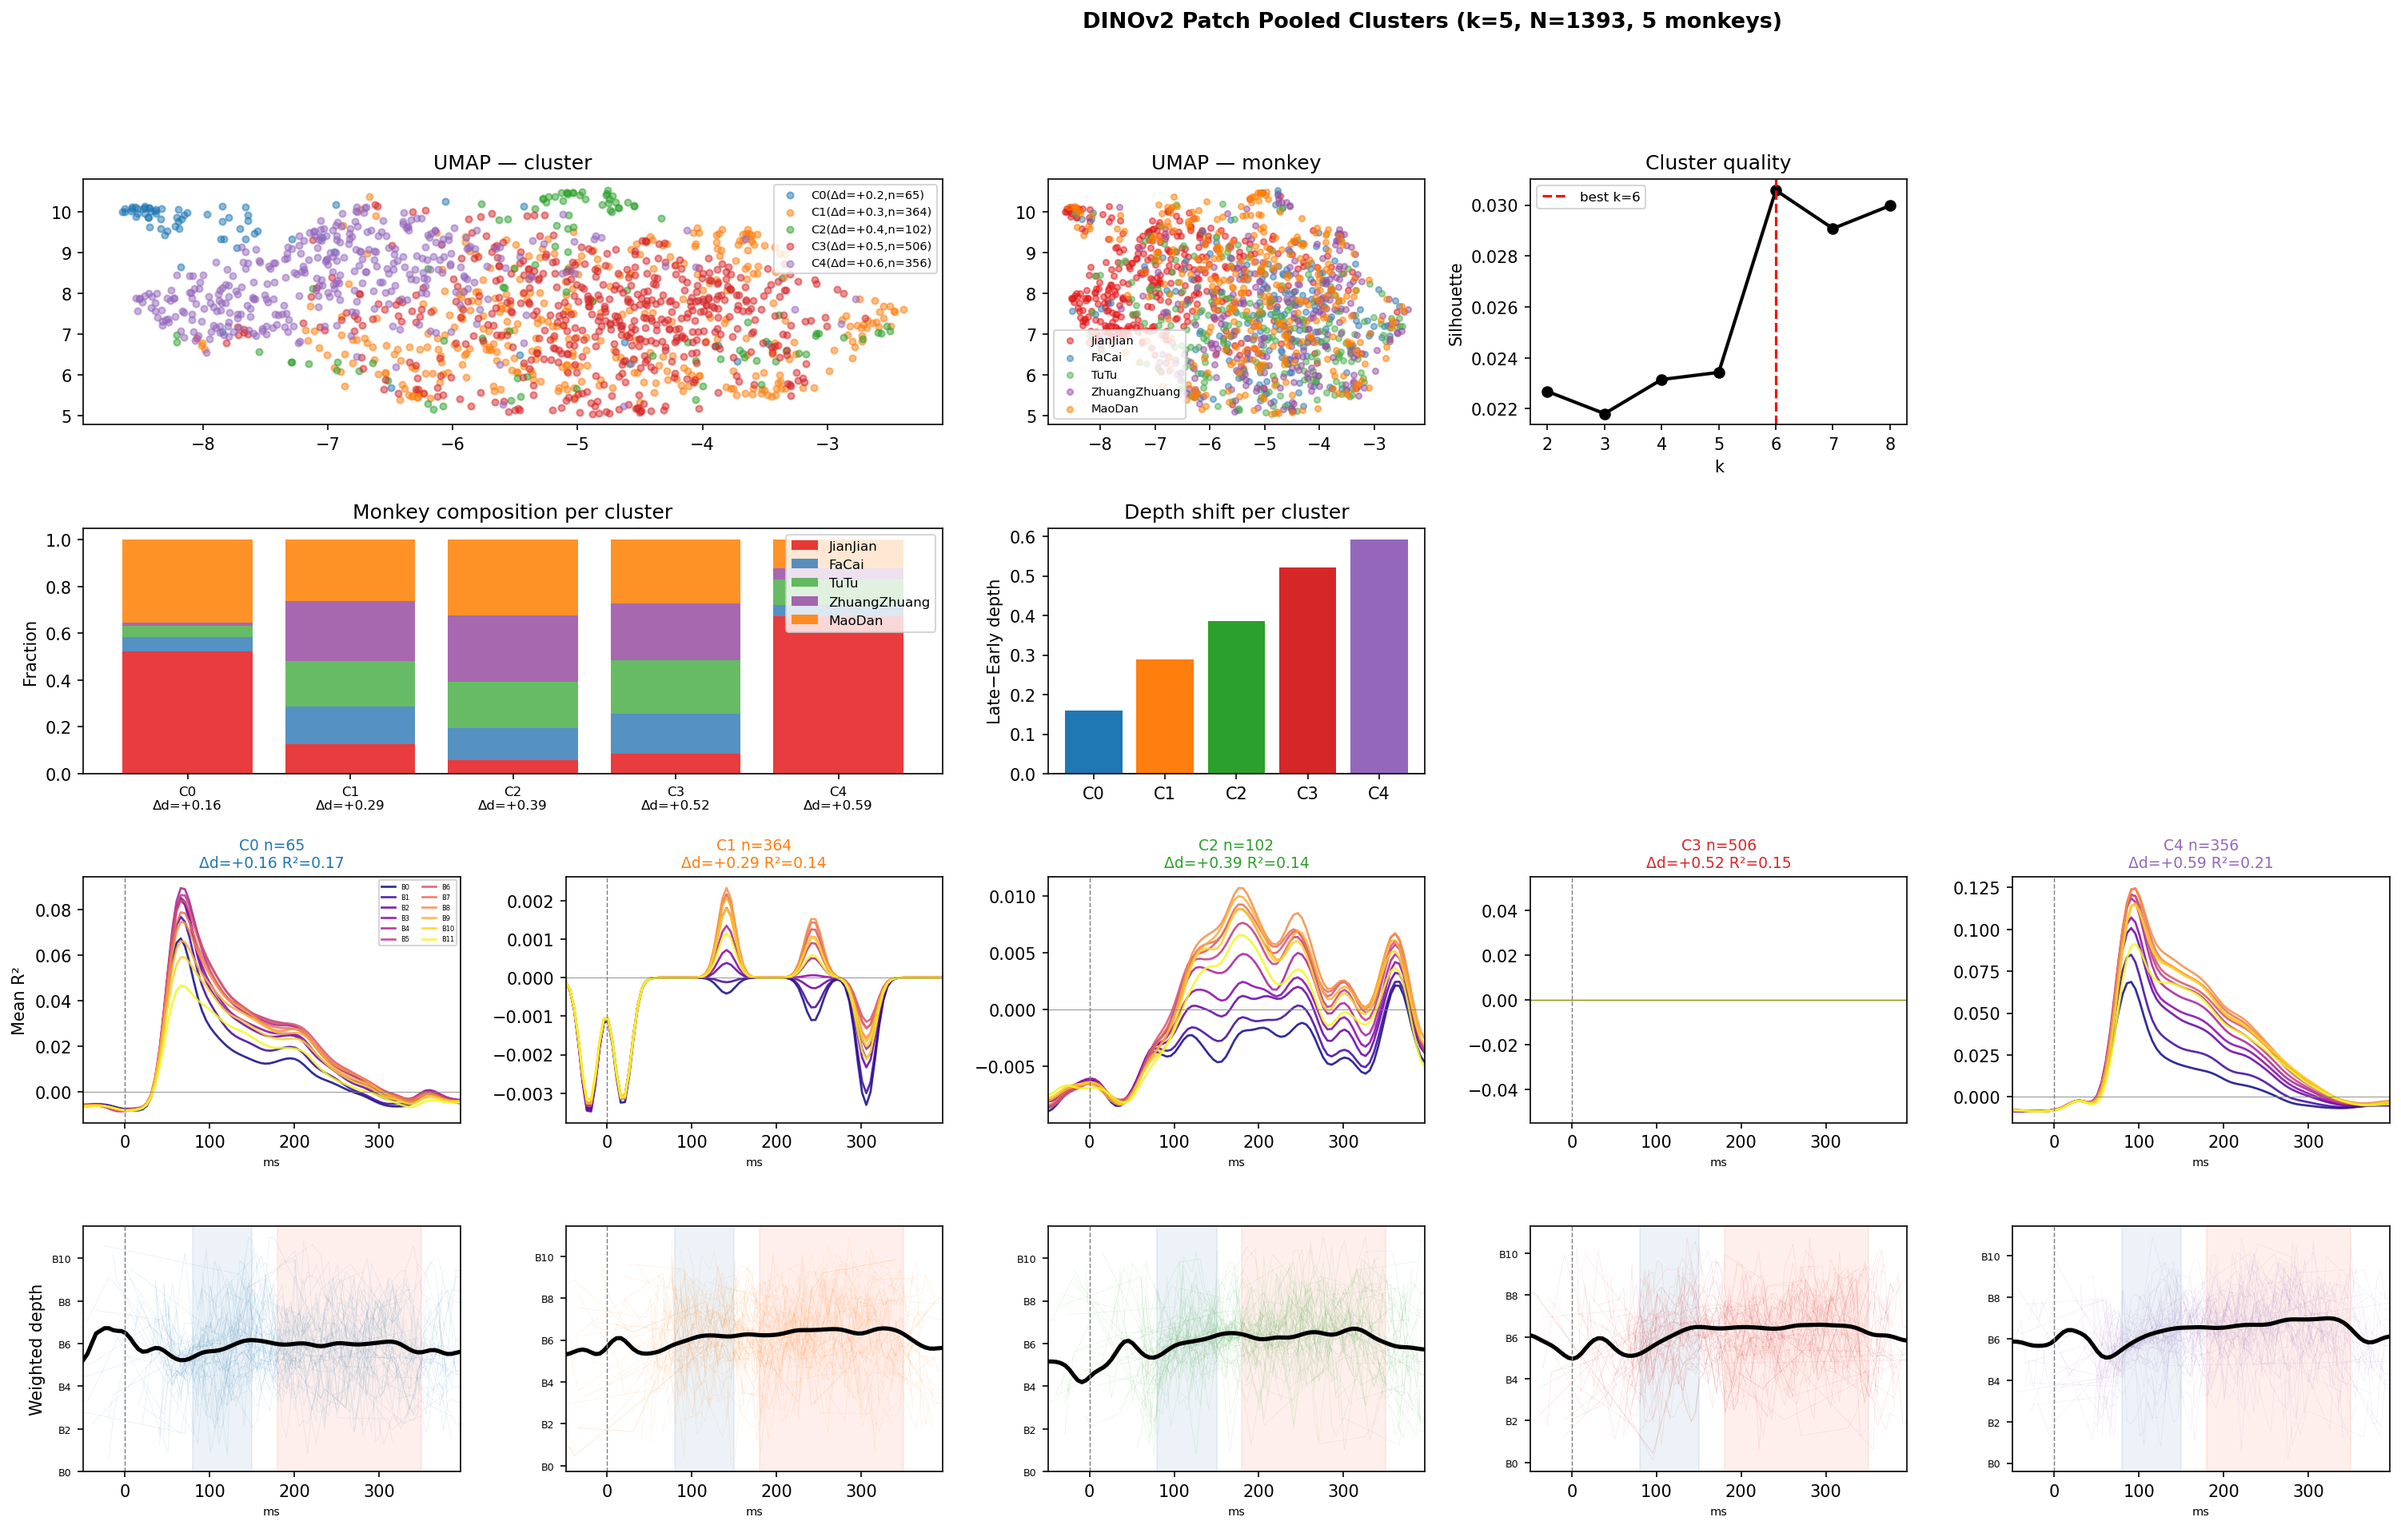
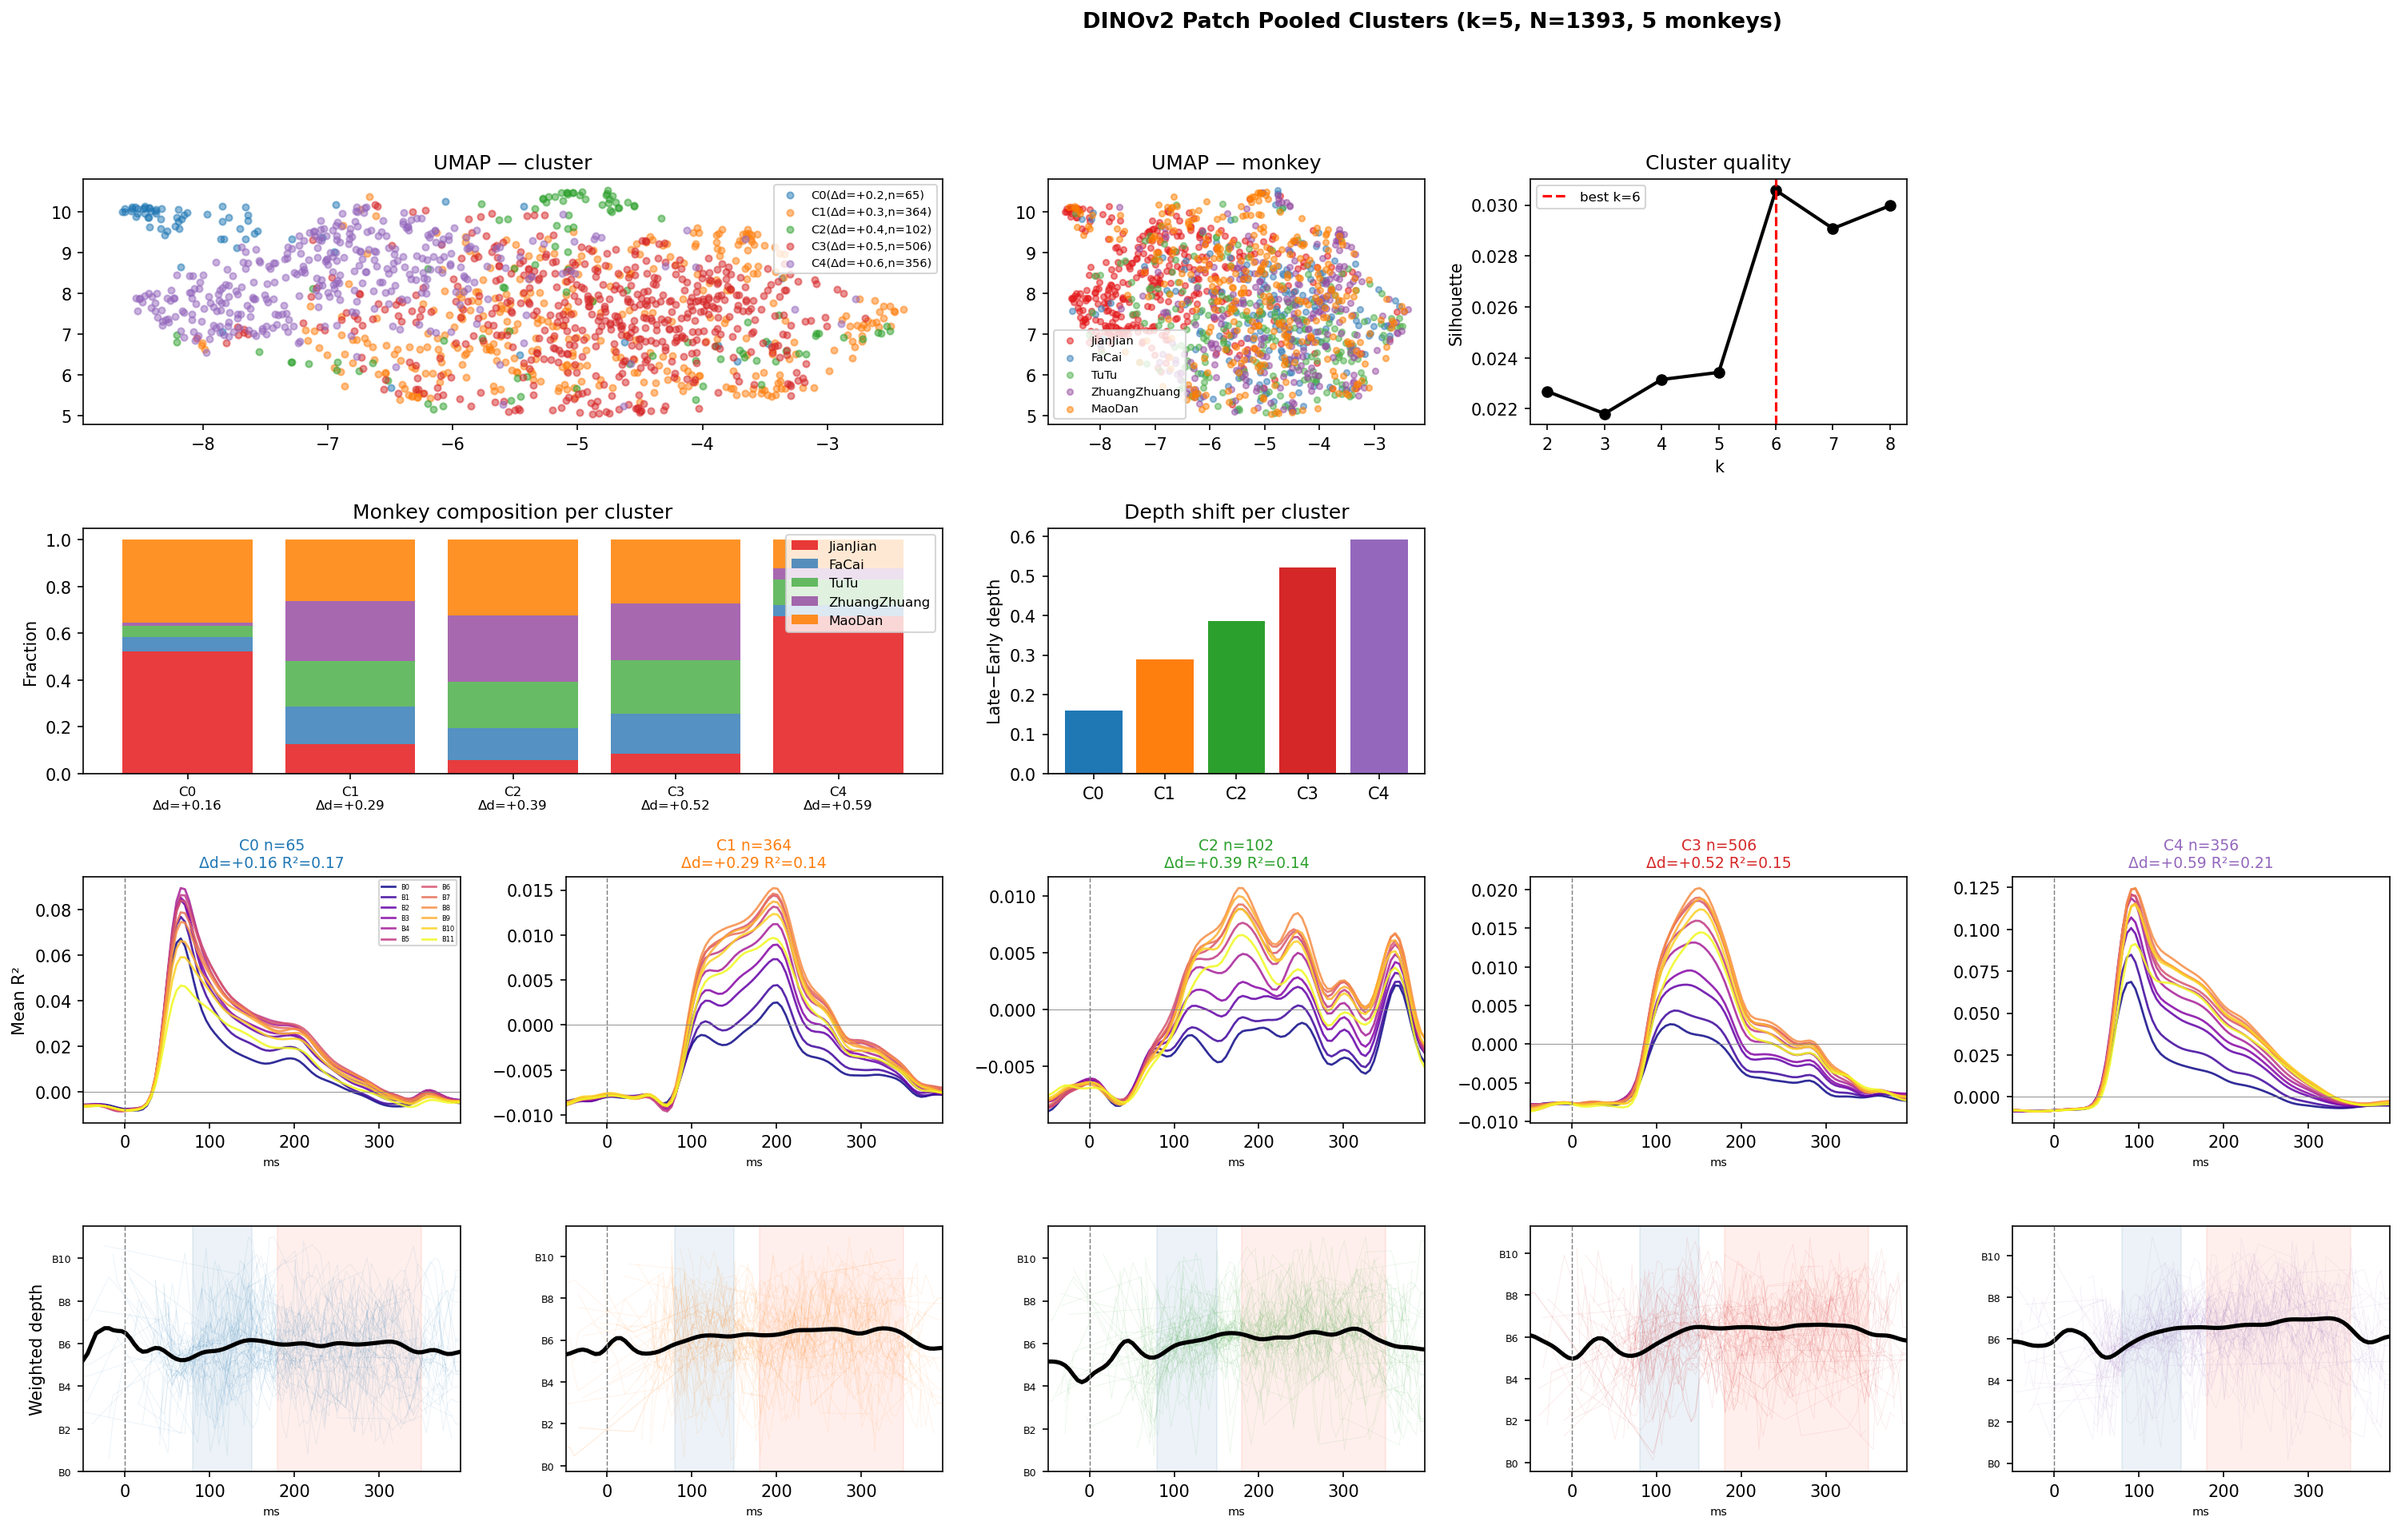
fix: use nanmean for cluster mean R² to avoid NaN propagation
np.mean propagates NaN silently, causing flat R² curves in clusters
containing units from low-response monkeys (TuTu, FaCai, etc.) where
many time bins are NaN from the safe R² computation. Replace with
np.nanmean in dinov2_pooled_clustering{,_patch}.py and pooled_clustering.py.
Regenerate patch token cluster figures (k=4,5,6) and per-monkey overview.

Changed region(s): [[0.2168, 0.586, 0.4026, 0.7402], [0.6813, 0.586, 0.8052, 0.7402], [0.6194, 0.6477, 0.6813, 0.7402]]

diff --git a/notebooks/pooled_clustering.py b/notebooks/pooled_clustering.py
@@ -145,7 +145,7 @@ for k_use in sorted(set([best_k, 4, 5])):
         mk_comp = {MONKEYS[m]: (monkey_id[unit_idx]==m).mean() for m in range(len(MONKEYS))}
         cluster_stats.append(dict(
             label=c, n=len(cidx), cidx=cidx, unit_idx=unit_idx,
-            mean_r2=r2_c.mean(axis=2), mean_depth=np.nanmean(dc_c,axis=1),
+            mean_r2=np.nanmean(r2_c, axis=2), mean_depth=np.nanmean(dc_c,axis=1),
             mean_pk_r2=np.nanmean(pk_c), early_d=ed, late_d=ld, shift=ld-ed,
             mk_comp=mk_comp,
         ))

diff --git a/notebooks/dinov2_pooled_clustering.py b/notebooks/dinov2_pooled_clustering.py
@@ -152,7 +152,7 @@ for k_use in sorted(set([best_k, 4, 5])):
         mk_comp  = {MONKEYS[m]: (monkey_id[unit_idx]==m).mean() for m in range(5)}
         cluster_stats.append(dict(
             label=c, n=len(cidx), cidx=cidx, unit_idx=unit_idx,
-            mean_r2=r2_c.mean(axis=2), mean_depth=np.nanmean(dc_c,axis=1),
+            mean_r2=np.nanmean(r2_c, axis=2), mean_depth=np.nanmean(dc_c,axis=1),
             mean_pk=np.nanmean(pk_c), ed=ed, ld=ld, shift=ld-ed,
             mk_comp=mk_comp,
         ))

diff --git a/notebooks/dinov2_pooled_clustering_patch.py b/notebooks/dinov2_pooled_clustering_patch.py
@@ -152,7 +152,7 @@ for k_use in sorted(set([best_k, 4, 5])):
         mk_comp  = {MONKEYS[m]: (monkey_id[unit_idx]==m).mean() for m in range(5)}
         cluster_stats.append(dict(
             label=c, n=len(cidx), cidx=cidx, unit_idx=unit_idx,
-            mean_r2=r2_c.mean(axis=2), mean_depth=np.nanmean(dc_c,axis=1),
+            mean_r2=np.nanmean(r2_c, axis=2), mean_depth=np.nanmean(dc_c,axis=1),
             mean_pk=np.nanmean(pk_c), ed=ed, ld=ld, shift=ld-ed,
             mk_comp=mk_comp,
         ))
